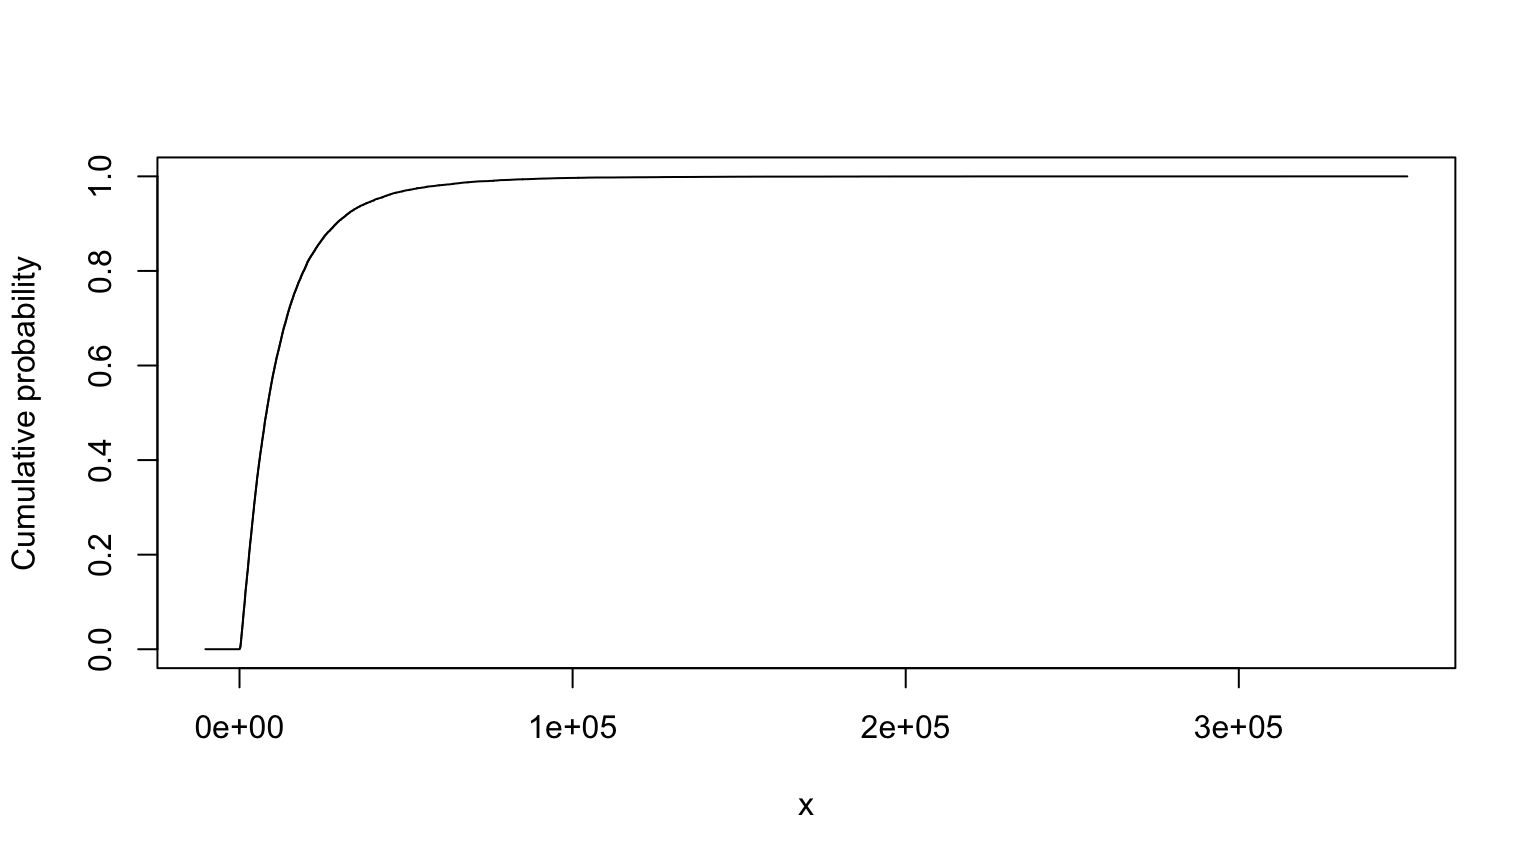
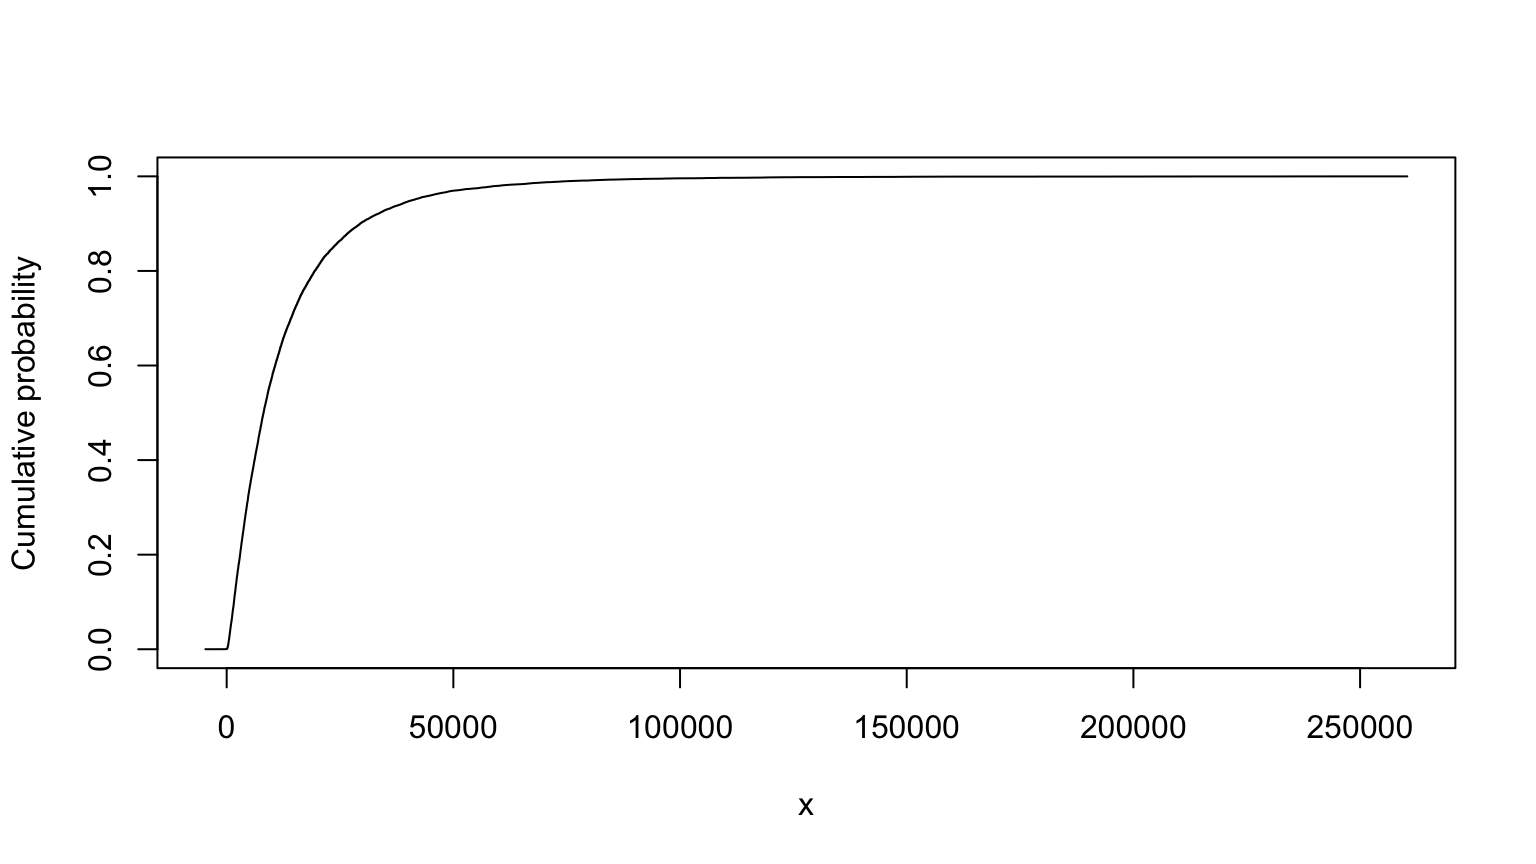
build_analysis_site() for release 1.1.12

diff --git a/docs/workshop.html b/docs/workshop.html
@@ -15,7 +15,7 @@
 
 <title>SRA Workshop 7</title>
 
-<script src="site_libs/header-attrs-2.31/header-attrs.js"></script>
+<script src="site_libs/header-attrs-2.32/header-attrs.js"></script>
 <script src="site_libs/jquery-3.6.0/jquery-3.6.0.min.js"></script>
 <meta name="viewport" content="width=device-width, initial-scale=1, shrink-to-fit=no" />
 <link href="site_libs/bootstrap-5.3.8/bootstrap.min.css" rel="stylesheet" />
@@ -428,25 +428,25 @@ T &lt;- (n + BD * foc * Koc) * L / (K * i) # all variables assumed independent
 summary(T)</code></pre>
 <pre><code>## 
 ## Monte Carlo distribution summary
-##   Mean: 12846.83
-##   Variance: 239421979
-##   Std Deviation: 15473.27
-##   Width of interquartile range: 12751.27
-##   Width of overall range: 360785.6
+##   Mean: 13055.76
+##   Variance: 250190412
+##   Std Deviation: 15817.41
+##   Width of interquartile range: 12768.59
+##   Width of overall range: 265078.4
 ##   Order statistics
-##      Left (min) value: -10208.1
-##      1st percentile: 344.7106
-##      5th percentile: 893.4425
-##      25th percentile: 3606.738
-##      Median (50th%ile): 8088.847
-##      75th percentile: 16358.01
-##      95th percentile: 40518.5
-##      99th percentile: 74572.91
-##      Right (max) value: 350577.5
+##      Left (min) value: -4667.68
+##      1st percentile: 357.2591
+##      5th percentile: 924.1674
+##      25th percentile: 3678.339
+##      Median (50th%ile): 8147.85
+##      75th percentile: 16446.93
+##      95th percentile: 41105.79
+##      99th percentile: 75480.64
+##      Right (max) value: 260410.7
 ##   Replications: 20000</code></pre>
 <pre class="r"><code>T</code></pre>
 <p><img src="workshop_files/figure-html/T-1.png" alt="" width="768" /></p>
-<pre><code>## MC (min=-10208.0990294705, median=8088.84740872166, mean=12846.8255850223, max=350577.475472579)</code></pre>
+<pre><code>## MC (min=-4667.68023089018, median=8147.85026040319, mean=13055.7569565406, max=260410.74359385)</code></pre>
 <pre class="r"><code># nolint end</code></pre>
 <p>Truncated version, from slide 40:</p>
 <pre class="r"><code># nolint start
@@ -466,25 +466,25 @@ T &lt;- (n + BD * foc * Koc) * L / (K * i)
 summary(T)</code></pre>
 <pre><code>## 
 ## Monte Carlo distribution summary
-##   Mean: 12218.58
-##   Variance: 161201879
-##   Std Deviation: 12696.53
-##   Width of interquartile range: 12562.95
-##   Width of overall range: 136418.3
+##   Mean: 12323.38
+##   Variance: 162632840
+##   Std Deviation: 12752.76
+##   Width of interquartile range: 12511.19
+##   Width of overall range: 130391.4
 ##   Order statistics
-##      Left (min) value: 86.1673
-##      1st percentile: 383.1127
-##      5th percentile: 958.5684
-##      25th percentile: 3712.986
-##      Median (50th%ile): 8043.453
-##      75th percentile: 16275.93
-##      95th percentile: 37525.75
-##      99th percentile: 60848.98
-##      Right (max) value: 136504.5
+##      Left (min) value: 59.39212
+##      1st percentile: 358.3684
+##      5th percentile: 947.992
+##      25th percentile: 3820.189
+##      Median (50th%ile): 8201.729
+##      75th percentile: 16331.38
+##      95th percentile: 37837.84
+##      99th percentile: 59988.64
+##      Right (max) value: 130450.8
 ##   Replications: 20000</code></pre>
 <pre class="r"><code>T</code></pre>
 <p><img src="workshop_files/figure-html/T_truncated-1.png" alt="" width="768" /></p>
-<pre><code>## MC (min=86.167298106963, median=8043.45277276112, mean=12218.5763876411, max=136504.511115854)</code></pre>
+<pre><code>## MC (min=59.3921221433598, median=8201.72884497644, mean=12323.3781919604, max=130450.794263126)</code></pre>
 <pre class="r"><code># nolint end</code></pre>
 <p>Maximum entropy version, from slide 70:</p>
 <p>T and Tind are pretty similar. In this case, the maximum entropy
@@ -503,25 +503,25 @@ Tind &lt;- (n + BD * foc * Koc) * L / (K * i)
 summary(Tind)</code></pre>
 <pre><code>## 
 ## Monte Carlo distribution summary
-##   Mean: 14075.56
-##   Variance: 230101571
-##   Std Deviation: 15169.1
-##   Width of interquartile range: 15462.26
-##   Width of overall range: 164422.3
+##   Mean: 13897.19
+##   Variance: 227921908
+##   Std Deviation: 15097.08
+##   Width of interquartile range: 15159.07
+##   Width of overall range: 157977.3
 ##   Order statistics
-##      Left (min) value: 76.2783
-##      1st percentile: 359.9125
-##      5th percentile: 960.7247
-##      25th percentile: 3774.867
-##      Median (50th%ile): 8704.084
-##      75th percentile: 19237.12
-##      95th percentile: 44954.8
-##      99th percentile: 70032.26
-##      Right (max) value: 164498.6
+##      Left (min) value: 67.44723
+##      1st percentile: 359.9385
+##      5th percentile: 965.2805
+##      25th percentile: 3702.058
+##      Median (50th%ile): 8484.596
+##      75th percentile: 18861.13
+##      95th percentile: 44299.18
+##      99th percentile: 69113.28
+##      Right (max) value: 158044.7
 ##   Replications: 20000</code></pre>
 <pre class="r"><code>Tind</code></pre>
 <p><img src="workshop_files/figure-html/Tind-1.png" alt="" width="768" /></p>
-<pre><code>## MC (min=76.2783014291588, median=8704.0840410242, mean=14075.5602138535, max=164498.612070541)</code></pre>
+<pre><code>## MC (min=67.4472300603748, median=8484.59575158111, mean=13897.1928664309, max=158044.698110633)</code></pre>
 <pre class="r"><code># nolint end</code></pre>
 </div>
 <div id="probability-bounds-analysis" class="section level2">

diff --git a/docs/news/index.html b/docs/news/index.html
@@ -7,7 +7,7 @@
 
     <a class="navbar-brand me-2" href="../index.html">workshop7</a>
 
-    <small class="nav-text text-muted me-auto" data-bs-toggle="tooltip" data-bs-placement="bottom" title="">1.1.11</small>
+    <small class="nav-text text-muted me-auto" data-bs-toggle="tooltip" data-bs-placement="bottom" title="">1.1.12</small>
 
 
     <button class="navbar-toggler" type="button" data-bs-toggle="collapse" data-bs-target="#navbar" aria-controls="navbar" aria-expanded="false" aria-label="Toggle navigation">
@@ -37,6 +37,10 @@
       <small>Source: <a href="https://github.com/jabenninghoff/workshop7/blob/HEAD/NEWS.md" class="external-link"><code>NEWS.md</code></a></small>
     </div>
 
+    <div class="section level2">
+<h2 class="pkg-version" data-toc-text="1.1.12" id="workshop7-1112">workshop7 1.1.12<a class="anchor" aria-label="anchor" href="#workshop7-1112"></a></h2>
+<ul><li>Maintenance updates</li>
+</ul></div>
     <div class="section level2">
 <h2 class="pkg-version" data-toc-text="1.1.11" id="workshop7-1111">workshop7 1.1.11<a class="anchor" aria-label="anchor" href="#workshop7-1111"></a></h2>
 <ul><li>Update R-CMD-check to run on macOS only</li>

diff --git a/docs/authors.html b/docs/authors.html
@@ -7,7 +7,7 @@
 
     <a class="navbar-brand me-2" href="index.html">workshop7</a>
 
-    <small class="nav-text text-muted me-auto" data-bs-toggle="tooltip" data-bs-placement="bottom" title="">1.1.11</small>
+    <small class="nav-text text-muted me-auto" data-bs-toggle="tooltip" data-bs-placement="bottom" title="">1.1.12</small>
 
 
     <button class="navbar-toggler" type="button" data-bs-toggle="collapse" data-bs-target="#navbar" aria-controls="navbar" aria-expanded="false" aria-label="Toggle navigation">
@@ -51,13 +51,13 @@
 
       <p>Benninghoff J (2026).
 <em>workshop7: SRA 2021 Workshop 7</em>.
-R package version 1.1.11, <a href="https://jabenninghoff.github.io/workshop7/">https://jabenninghoff.github.io/workshop7/</a>.
+R package version 1.1.12, <a href="https://jabenninghoff.github.io/workshop7/">https://jabenninghoff.github.io/workshop7/</a>.
 </p>
       <pre>@Manual{,
   title = {workshop7: SRA 2021 Workshop 7},
   author = {John Benninghoff},
   year = {2026},
-  note = {R package version 1.1.11},
+  note = {R package version 1.1.12},
   url = {https://jabenninghoff.github.io/workshop7/},
 }</pre>
     </div>

diff --git a/docs/404.html b/docs/404.html
@@ -21,7 +21,7 @@
 
     <a class="navbar-brand me-2" href="https://jabenninghoff.github.io/workshop7/index.html">workshop7</a>
 
-    <small class="nav-text text-muted me-auto" data-bs-toggle="tooltip" data-bs-placement="bottom" title="">1.1.11</small>
+    <small class="nav-text text-muted me-auto" data-bs-toggle="tooltip" data-bs-placement="bottom" title="">1.1.12</small>
 
 
     <button class="navbar-toggler" type="button" data-bs-toggle="collapse" data-bs-target="#navbar" aria-controls="navbar" aria-expanded="false" aria-label="Toggle navigation">

diff --git a/docs/reference/index.html b/docs/reference/index.html
@@ -7,7 +7,7 @@
 
     <a class="navbar-brand me-2" href="../index.html">workshop7</a>
 
-    <small class="nav-text text-muted me-auto" data-bs-toggle="tooltip" data-bs-placement="bottom" title="">1.1.11</small>
+    <small class="nav-text text-muted me-auto" data-bs-toggle="tooltip" data-bs-placement="bottom" title="">1.1.12</small>
 
 
     <button class="navbar-toggler" type="button" data-bs-toggle="collapse" data-bs-target="#navbar" aria-controls="navbar" aria-expanded="false" aria-label="Toggle navigation">

diff --git a/docs/reference/workshop7-package.html b/docs/reference/workshop7-package.html
@@ -7,7 +7,7 @@
 
     <a class="navbar-brand me-2" href="../index.html">workshop7</a>
 
-    <small class="nav-text text-muted me-auto" data-bs-toggle="tooltip" data-bs-placement="bottom" title="">1.1.11</small>
+    <small class="nav-text text-muted me-auto" data-bs-toggle="tooltip" data-bs-placement="bottom" title="">1.1.12</small>
 
 
     <button class="navbar-toggler" type="button" data-bs-toggle="collapse" data-bs-target="#navbar" aria-controls="navbar" aria-expanded="false" aria-label="Toggle navigation">

diff --git a/docs/index.html b/docs/index.html
@@ -23,7 +23,7 @@
 
     <a class="navbar-brand me-2" href="index.html">workshop7</a>
 
-    <small class="nav-text text-muted me-auto" data-bs-toggle="tooltip" data-bs-placement="bottom" title="">1.1.11</small>
+    <small class="nav-text text-muted me-auto" data-bs-toggle="tooltip" data-bs-placement="bottom" title="">1.1.12</small>
 
 
     <button class="navbar-toggler" type="button" data-bs-toggle="collapse" data-bs-target="#navbar" aria-controls="navbar" aria-expanded="false" aria-label="Toggle navigation">

diff --git a/docs/LICENSE-text.html b/docs/LICENSE-text.html
@@ -7,7 +7,7 @@
 
     <a class="navbar-brand me-2" href="index.html">workshop7</a>
 
-    <small class="nav-text text-muted me-auto" data-bs-toggle="tooltip" data-bs-placement="bottom" title="">1.1.11</small>
+    <small class="nav-text text-muted me-auto" data-bs-toggle="tooltip" data-bs-placement="bottom" title="">1.1.12</small>
 
 
     <button class="navbar-toggler" type="button" data-bs-toggle="collapse" data-bs-target="#navbar" aria-controls="navbar" aria-expanded="false" aria-label="Toggle navigation">

diff --git a/docs/LICENSE.html b/docs/LICENSE.html
@@ -7,7 +7,7 @@
 
     <a class="navbar-brand me-2" href="index.html">workshop7</a>
 
-    <small class="nav-text text-muted me-auto" data-bs-toggle="tooltip" data-bs-placement="bottom" title="">1.1.11</small>
+    <small class="nav-text text-muted me-auto" data-bs-toggle="tooltip" data-bs-placement="bottom" title="">1.1.12</small>
 
 
     <button class="navbar-toggler" type="button" data-bs-toggle="collapse" data-bs-target="#navbar" aria-controls="navbar" aria-expanded="false" aria-label="Toggle navigation">

diff --git a/docs/TODO.html b/docs/TODO.html
@@ -7,7 +7,7 @@
 
     <a class="navbar-brand me-2" href="index.html">workshop7</a>
 
-    <small class="nav-text text-muted me-auto" data-bs-toggle="tooltip" data-bs-placement="bottom" title="">1.1.11</small>
+    <small class="nav-text text-muted me-auto" data-bs-toggle="tooltip" data-bs-placement="bottom" title="">1.1.12</small>
 
 
     <button class="navbar-toggler" type="button" data-bs-toggle="collapse" data-bs-target="#navbar" aria-controls="navbar" aria-expanded="false" aria-label="Toggle navigation">

diff --git a/docs/workshop-notes.html b/docs/workshop-notes.html
@@ -15,7 +15,7 @@
 
 <title>SRA Workshop 7 Notes</title>
 
-<script src="site_libs/header-attrs-2.31/header-attrs.js"></script>
+<script src="site_libs/header-attrs-2.32/header-attrs.js"></script>
 <script src="site_libs/jquery-3.6.0/jquery-3.6.0.min.js"></script>
 <meta name="viewport" content="width=device-width, initial-scale=1, shrink-to-fit=no" />
 <link href="site_libs/bootstrap-5.3.8/bootstrap.min.css" rel="stylesheet" />
